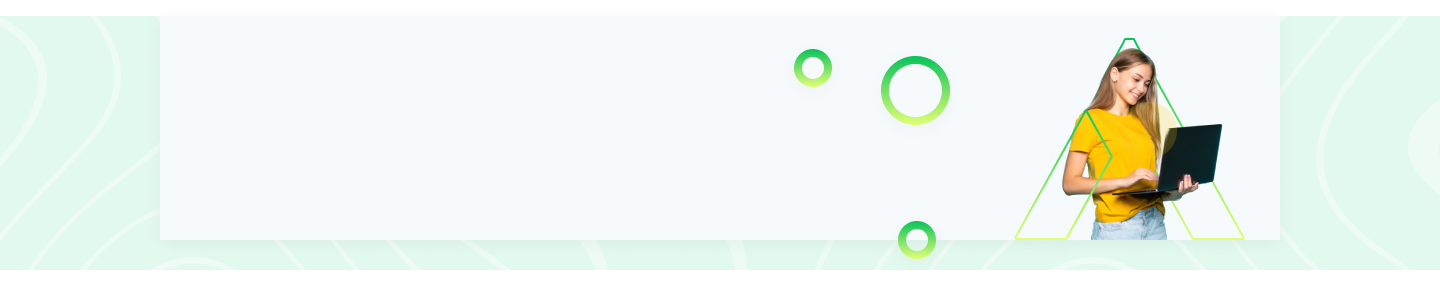
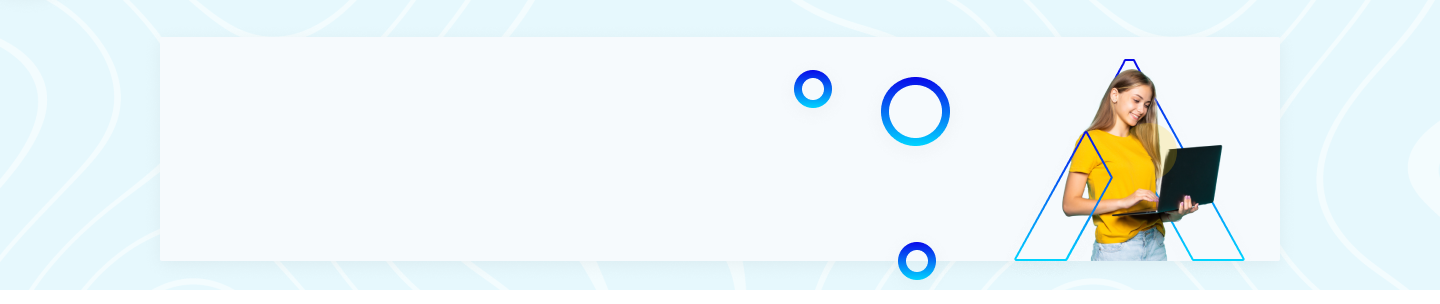
change background image, theme  on projectlist and findtalent and optimize layout.

Changed region(s): [[0.125, 0.1696, 0.875, 0.9329], [0.0, 0.0, 1.0, 0.0565], [0.5312, 0.1696, 0.6875, 0.4806]]

diff --git a/src/container/freelancer/ProjectList.js b/src/container/freelancer/ProjectList.js
@@ -373,8 +373,8 @@ function ProjectList() {
   return (
     <>
       <Navbar />
-      <div className="h-[43vh] bg-no-repeat -mt-[1.3rem] bg-contain" style={{ backgroundImage: `url(${profile_list})` }}>
-        <div className='text-left pt-[3rem] ml-[13.5vw] text-2xl font-cardo'>
+      <div className="h-[43vh] bg-no-repeat -mt-[1.2rem] bg-cover" style={{ backgroundImage: `url(${profile_list})` }}>
+        <div className='text-left pt-[6rem] ml-[13.5vw] text-2xl font-cardo'>
           <h1>Projects List</h1>
           <p className='font-inter text-sm text-[#797979] font-normal mt-2'>Explore high-paying freelance opportunities and land your dream job now!</p>
           <div className='lg:w-[44vw] bg-white p-3 lg:h-14 rounded-2xl lg:flex items-center mt-4 shadow-md'>
@@ -383,7 +383,7 @@ function ProjectList() {
               <input className='w-96 font-inter text-base ml-3 outline-none' placeholder='Search Job by Category' value={searchQuery} onChange={(e) => setSearchQuery(e.target.value)}></input>
             </div>
             <div className=''>
-              <button className='rounded h-8 w-24 lg:ml-6 font-semibold text-base text-white bg-gradient-to-r from-[#00BF58] to-[#E3FF75]'>Search</button>
+              <button className='rounded h-8 w-24 lg:ml-6 font-semibold text-base text-white bg-gradient-to-r from-[#0909E9] to-[#00D4FF]'>Search</button>
             </div>
           </div>
         </div>
@@ -413,7 +413,7 @@ function ProjectList() {
         />
                 <div class="checkbox-border-gradient bg-transparent mr-3 w-5 h-5 rounded flex items-center justify-center">
                   
-                    <span class="checkmark hidden"><i class="bi bi-check-lg pr-2 pt-2"></i></span>
+                    <span class="checkmark hidden"><i class="bi bi-check-lg pr-0.5 pt-2"></i></span>
                 </div>
                      <span class="normal-checkbox mr-3 border border-gray-300 w-5 h-5 inline-block rounded"></span>
                 <span class="font-normal text-[#797979]">{category}</span>
@@ -448,7 +448,7 @@ function ProjectList() {
               />
                       <div class="checkbox-border-gradient bg-transparent mr-3 w-5 h-5 rounded flex items-center justify-center">
                         
-                          <span class="checkmark hidden"><i class="bi bi-check-lg pr-2 pt-2"></i></span>
+                          <span class="checkmark hidden"><i class="bi bi-check-lg pr-0.5 pt-2"></i></span>
                       </div>
                            <span class="normal-checkbox mr-3 border border-gray-300 w-5 h-5 inline-block rounded"></span>
                       <span class="font-normal text-[#797979]">{exp.replace(/_/g, ' ')}</span>
@@ -468,7 +468,7 @@ function ProjectList() {
           value={protype}
           onChange={handleRateFilterChange}
         />
-              <div class="w-11 h-6 bg-white border-2  border-blue-300 rounded-full peer dark:bg-white-700 peer-focus:ring-0 peer-focus:ring-blue-600 peer-checked:after:translate-x-full peer-checked:after:border-white after:content-[''] after:absolute after:top-0.5 after:left-[2px] after:bg-gradient-to-r  after:border after:rounded-full after:h-5 after:w-5 after:transition-all dark:border-gray-600 peer-checked:bg-gradient-to-r from-[#00BF58] to-[#E3FF75]"></div>
+              <div class="w-11 h-6 bg-white border-2  border-blue-300 rounded-full peer dark:bg-white-700 peer-focus:ring-0 peer-focus:ring-blue-600 peer-checked:after:translate-x-full peer-checked:after:border-white after:content-[''] after:absolute after:top-0.5 after:left-[2px] after:bg-gradient-to-r  after:border after:rounded-full after:h-5 after:w-5 after:transition-all dark:border-gray-600 peer-checked:bg-gradient-to-r from-[#0909E9] to-[#00D4FF]"></div>
               <span class="ml-3 text-base font-normal font-inter text-[#797979]">{protype}</span>
             </label>
               </div>
@@ -487,7 +487,7 @@ function ProjectList() {
                 railStyle={{ background: 'lightgray' }}
                 trackStyle={[
                   {
-                    background: 'linear-gradient(45deg, #00BF58, #E3FF75)',
+                    background: 'linear-gradient(45deg, #0909E9, #00D4FF)',
                     borderColor: '#65a30d',
                   },
                 ]}
@@ -496,14 +496,14 @@ function ProjectList() {
                     backgroundColor: 'white',
                     borderColor: 'transparent', 
                     borderRadius: '50%', // Set border radius for circular shape
-                    borderImage: 'linear-gradient(45deg, #00BF58, #E3FF75)',
+                    borderImage: 'linear-gradient(45deg, #0909E9, #00D4FF)',
                     borderImageSlice: 1,
                   },
                   {
                     backgroundColor: 'white',
                     borderColor: 'transparent',
                     borderRadius: '50%',
-                    borderImage: 'linear-gradient(45deg, #00BF58, #E3FF75)',
+                    borderImage: 'linear-gradient(45deg, #0909E9, #00D4FF)',
                     borderImageSlice: 1,
                   },
                 ]}
@@ -538,7 +538,7 @@ function ProjectList() {
                 onChange={handleSkillFilterChange}
               />
                           <div className="checkbox-border-gradient bg-transparent mr-3 w-5 h-5 rounded flex items-center justify-center">
-                              <span className="checkmark hidden"><i className="bi bi-check-lg pr-2 pt-2"></i></span>
+                              <span className="checkmark hidden"><i className="bi bi-check-lg pr-0.5 pt-2"></i></span>
                           </div>
                           <span className="normal-checkbox mr-3 border border-gray-300 w-5 h-5 inline-block rounded"></span>
                           <span className="font-normal text-[#797979]">{skills}</span>
@@ -575,7 +575,7 @@ function ProjectList() {
               />
                       <div class="checkbox-border-gradient bg-transparent mr-3 w-5 h-5 rounded flex items-center justify-center">
                         
-                          <span class="checkmark hidden"><i class="bi bi-check-lg pr-2 pt-2"></i></span>
+                          <span class="checkmark hidden"><i class="bi bi-check-lg pr-0.5 pt-2"></i></span>
                       </div>
                            <span class="normal-checkbox mr-3 border border-gray-300 w-5 h-5 inline-block rounded"></span>
                       <span class="font-normal text-[#797979]">{location}</span>
@@ -663,11 +663,11 @@ function ProjectList() {
                 <p className='font-inter text-[#797979] mt-1 text-sm text-right'>{project.rate} Rate</p>
                 <div className=''>
                   {/* {accessToken ? (
-                    <Link to='/view-more/project-detail' state={{ project }} onClick={() => window.scrollTo(0, 0)}><button className='rounded h-12 w-36  text-white bg-gradient-to-r from-[#00BF58] to-[#E3FF75] mt-3 text-sm font-bold ml-16'>View Detail</button></Link>
+                    <Link to='/view-more/project-detail' state={{ project }} onClick={() => window.scrollTo(0, 0)}><button className='rounded h-12 w-36  text-white bg-gradient-to-r from-[#0909E9] to-[#00D4FF] mt-3 text-sm font-bold ml-16'>View Detail</button></Link>
                   ): (
-                  <Link to='/login' onClick={() => window.scrollTo(0, 0)}><button className='rounded h-12 w-36  text-white bg-gradient-to-r from-[#00BF58] to-[#E3FF75] mt-3 text-sm font-bold ml-16'>Send Proposal</button></Link>
+                  <Link to='/login' onClick={() => window.scrollTo(0, 0)}><button className='rounded h-12 w-36  text-white bg-gradient-to-r from-[#0909E9] to-[#00D4FF] mt-3 text-sm font-bold ml-16'>Send Proposal</button></Link>
                 )} */}
-                 <Link to='/view-more/project-detail' state={{ project }} onClick={() => window.scrollTo(0, 0)}><button className='rounded h-12 w-36  text-white bg-gradient-to-r from-[#00BF58] to-[#E3FF75] mt-3 text-sm font-bold ml-16'>View Detail</button></Link>
+                 <Link to='/view-more/project-detail' state={{ project }} onClick={() => window.scrollTo(0, 0)}><button className='rounded h-12 w-36  text-white bg-gradient-to-r from-[#0909E9] to-[#00D4FF] mt-3 text-sm font-bold ml-16'>View Detail</button></Link>
                 {/* {accessToken ? (
                 isAlreadyApplied ? (
                   <button className='rounded h-12 w-36 text-gray-400 bg-slate-200 cursor-not-allowed mt-3 text-sm font-bold ml-16' disabled>
@@ -675,14 +675,14 @@ function ProjectList() {
                   </button>
                 ) : (
                   <Link to='/freelancer/send-proposal' state={{ project }} onClick={() => window.scrollTo(0, 0)}>
-                    <button className='rounded h-12 w-36 text-white bg-gradient-to-r from-[#00BF58] to-[#E3FF75] mt-3 text-sm font-bold ml-16'>
+                    <button className='rounded h-12 w-36 text-white bg-gradient-to-r from-[#0909E9] to-[#00D4FF] mt-3 text-sm font-bold ml-16'>
                       Send Proposal
                     </button>
                   </Link>
                 )
               ) : (
                 <Link to='/login' onClick={() => window.scrollTo(0, 0)}>
-                  <button className='rounded h-12 w-36 text-white bg-gradient-to-r from-[#00BF58] to-[#E3FF75] mt-3 text-sm font-bold ml-16'>
+                  <button className='rounded h-12 w-36 text-white bg-gradient-to-r from-[#0909E9] to-[#00D4FF] mt-3 text-sm font-bold ml-16'>
                     Send Proposal
                   </button>
                 </Link>
@@ -729,7 +729,7 @@ function ProjectList() {
                             variant="outlined"
                             onClick={prev}
                             disabled={currentPage === 1}
-                            style={{ backgroundImage: 'linear-gradient(45deg, #00BF58, #E3FF75)', border: 'none' }}
+                            style={{ backgroundImage: 'linear-gradient(45deg, #0909E9, #00D4FF)', border: 'none' }}
                         >
                             <ArrowLeftIcon strokeWidth={2} className="h-4 w-4 text-white" />
                         </IconButton>
@@ -739,7 +739,7 @@ function ProjectList() {
                             return (
                                 <span
                                     key={pageNumber}
-                                    className={`px-0 py-1 ${currentPage === pageNumber ? 'bg-clip-text text-transparent bg-gradient-to-r from-[#00BF58] to-[#E3FF75] font-bold font-inter text-[14px] cursor-pointer' : 'text-[#0A142F] font-bold font-inter text-[14px] cursor-pointer'}`}
+                                    className={`px-0 py-1 ${currentPage === pageNumber ? 'bg-clip-text text-transparent bg-gradient-to-r from-[#0909E9] to-[#00D4FF] font-bold font-inter text-[14px] cursor-pointer' : 'text-[#0A142F] font-bold font-inter text-[14px] cursor-pointer'}`}
                                     onClick={() => {
                                         window.scrollTo(0, 0);
                                         setCurrentPage(pageNumber);
@@ -756,7 +756,7 @@ function ProjectList() {
                             variant="outlined"
                             onClick={next}
                             disabled={currentPage === totalPages}
-                            style={{ backgroundImage: 'linear-gradient(45deg, #00BF58, #E3FF75)', border: 'none' }}
+                            style={{ backgroundImage: 'linear-gradient(45deg, #0909E9, #00D4FF)', border: 'none' }}
                         >
                             <ArrowRightIcon strokeWidth={2} className="h-4 w-4 text-white" />
                         </IconButton>
@@ -769,7 +769,7 @@ function ProjectList() {
                             variant="outlined"
                             onClick={prev}
                             disabled={currentPage === 1}
-                            style={{ backgroundImage: 'linear-gradient(45deg, #00BF58, #E3FF75)', border: 'none' }}
+                            style={{ backgroundImage: 'linear-gradient(45deg, #0909E9, #00D4FF)', border: 'none' }}
                         >
                             <ArrowLeftIcon strokeWidth={2} className="h-4 w-4 text-white" />
                         </IconButton>
@@ -779,7 +779,7 @@ function ProjectList() {
                             return (
                                 <span
                                     key={pageNumber}
-                                    className={`px-0 py-1 ${currentPage === pageNumber ? 'bg-clip-text text-transparent bg-gradient-to-r from-[#00BF58] to-[#E3FF75] font-bold font-inter text-[14px] cursor-pointer' : 'text-[#0A142F] font-bold font-inter text-[14px] cursor-pointer'}`}
+                                    className={`px-0 py-1 ${currentPage === pageNumber ? 'bg-clip-text text-transparent bg-gradient-to-r from-[#0909E9] to-[#00D4FF] font-bold font-inter text-[14px] cursor-pointer' : 'text-[#0A142F] font-bold font-inter text-[14px] cursor-pointer'}`}
                                     onClick={() => setCurrentPage(pageNumber)}
                                 >
                                     {pageNumber}
@@ -792,7 +792,7 @@ function ProjectList() {
                             variant="outlined"
                             onClick={next}
                             disabled={currentPage === totalPages}
-                            style={{ backgroundImage: 'linear-gradient(45deg, #00BF58, #E3FF75)', border: 'none' }}
+                            style={{ backgroundImage: 'linear-gradient(45deg, #0909E9, #00D4FF)', border: 'none' }}
                         >
                             <ArrowRightIcon strokeWidth={2} className="h-4 w-4 text-white" />
                         </IconButton>

diff --git a/src/components/Layout/Background.js b/src/components/Layout/Background.js
@@ -9,7 +9,7 @@ const Background = () => {
     <Navbar/>
     <div className="h-screen bg-center bg-cover" style={{ backgroundImage: `url(${background})` }}>
         
-        <div className='text-left pt-36 ml-[11.5vw] -mt-[0.6vh]'>
+        <div className='text-left pt-36 ml-[11.5vw] -mt-[1.5vh]'>
           <h1 className='text-[#797979] text-lg font-semibold tracking-wider'><span className='text-[#031136] indent-4'>Popular:</span> Design Art Business Video Editing</h1>
           <h6 className='text-[50px] font-cardo font-semibold leading-[67.7px] mt-2 text-[#031136]'>Find & Hire <br/> Top 3% of expert <br/> on Alanced</h6>
           <h1 className='mt-6 text-[#797979] text-[16px] font-inter font-normal leading-[26px] mb-3.5'>With the largest professional creative community online, simply <br/> search through from our website</h1>

diff --git a/src/index.css b/src/index.css
@@ -19,7 +19,7 @@
 .checkbox-border-gradient {
     display: none;
     border: double 1px transparent;
-    background-image: linear-gradient(white, white), linear-gradient(to right, #00BF58, #E3FF75);
+    background-image: linear-gradient(white, white), linear-gradient(to right, #0909E9, #00D4FF);
     background-origin: border-box;
     background-clip: content-box, border-box;
 }
@@ -30,7 +30,7 @@ input[type="checkbox"]:checked + .checkbox-border-gradient {
 
 input[type="checkbox"]:checked + .checkbox-border-gradient .checkmark {
     display: inline-block;
-    color: #00BF58;
+    color: #0091c2;
 }
 
 input[type="checkbox"]:checked + .checkbox-border-gradient + .normal-checkbox {

diff --git a/src/container/hirer/FindTalent.js b/src/container/hirer/FindTalent.js
@@ -252,7 +252,7 @@ const FindTalent = () => {
     return (
       <>
       <Navbar/>
-      <div className="h-[43vh] bg-no-repeat -mt-[1.3rem] bg-contain" style={{ backgroundImage: `url(${mybg})` }}>
+      <div className="h-[43vh] bg-no-repeat -mt-[1.3rem] bg-cover" style={{ backgroundImage: `url(${mybg})` }}>
         <div className='text-left pt-[3rem] ml-[13.5vw] text-2xl font-cardo'>
           <h1>Find & Hire Freelancers</h1>
           <p className='font-inter text-sm text-[#797979] font-normal mt-2'>More than 10K expert freelancers are waiting for you</p>
